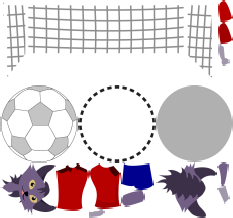
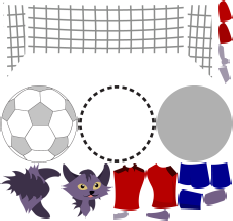
Added kick animation

diff --git a/safari/Classes/mini_games/Wembley.cpp b/safari/Classes/mini_games/Wembley.cpp
@@ -188,7 +188,7 @@ void Wembley::gameOver(bool correct) {
 
 void Wembley::addEventsBall(cocos2d::Sprite* callerObject)
 {
-	
+	static int kicks = 0;
 	auto listener = cocos2d::EventListenerTouchOneByOne::create();
 	listener->setSwallowTouches(false);
 
@@ -212,9 +212,52 @@ void Wembley::addEventsBall(cocos2d::Sprite* callerObject)
 				
 				removeChild(target);				
 			});
+
+			auto kickBall = CallFunc::create([=]() {
+
+				//auto kickTimeline = CSLoader::createTimeline("wembley/char.csb");
+				//auto kick = CSLoader::createNode("wembley/char.csb");
+				//kick->setPosition(Vec2(target->getPosition()));
+
+				//addChild(kick);
+				//target->runAction(kickTimeline);
+				//_character[target->getTag()]->runAction(_timeline[target->getTag()]);
+				_timeline[target->getTag()]->play("kick", false);
+				kicks++;
+				CCLOG("kicks %d", kicks);
+				//kickTimeline->play("kick", false);
+			});
+
+			auto idleCharacter = CallFunc::create([=]() {
+
+				//auto kickTimeline = CSLoader::createTimeline("wembley/char.csb");
+				//auto kick = CSLoader::createNode("wembley/char.csb");
+				//kick->setPosition(Vec2(target->getPosition()));
+
+				//addChild(kick);
+				//target->runAction(kickTimeline);
+				//_character[target->getTag()]->runAction(_timeline[target->getTag()]);
+				_timeline[target->getTag()]->play("back_idle", true);
+				//kickTimeline->play("kick", false);
+			});
+			auto delay = DelayTime::create(0.5f);
+			//_menuContext->showScore();
 			
-			auto sequence = Sequence::create(moveTo, removeBall, nullptr);
-			target->runAction(sequence);
+			auto sequence = Sequence::create(kickBall, moveTo, removeBall, nullptr);
+		
+			if(kicks<_numGraphemes-1)
+				target->runAction(sequence);
+			else {
+				auto endGame = CallFunc::create([=]() {
+
+					_menuContext->showScore();
+				});
+				auto sequence = Sequence::create(kickBall, moveTo, removeBall,  endGame, nullptr);
+				target->runAction(sequence);
+				
+			}
+
+			
 
 		}
 		return true;

diff --git a/safari/Classes/mini_games/Wembley.h b/safari/Classes/mini_games/Wembley.h
@@ -15,7 +15,7 @@ public:
     static const char* gameName() { return WEMBLEY.c_str();}
     
 protected:
-	void Wembley::addEventsBall(cocos2d::Sprite* callerObject);
+	void addEventsBall(cocos2d::Sprite* callerObject);
 	cocos2d::Node* loadNode() override;
 	std::string getGridBackground() override;
 	void createChoice() override;
